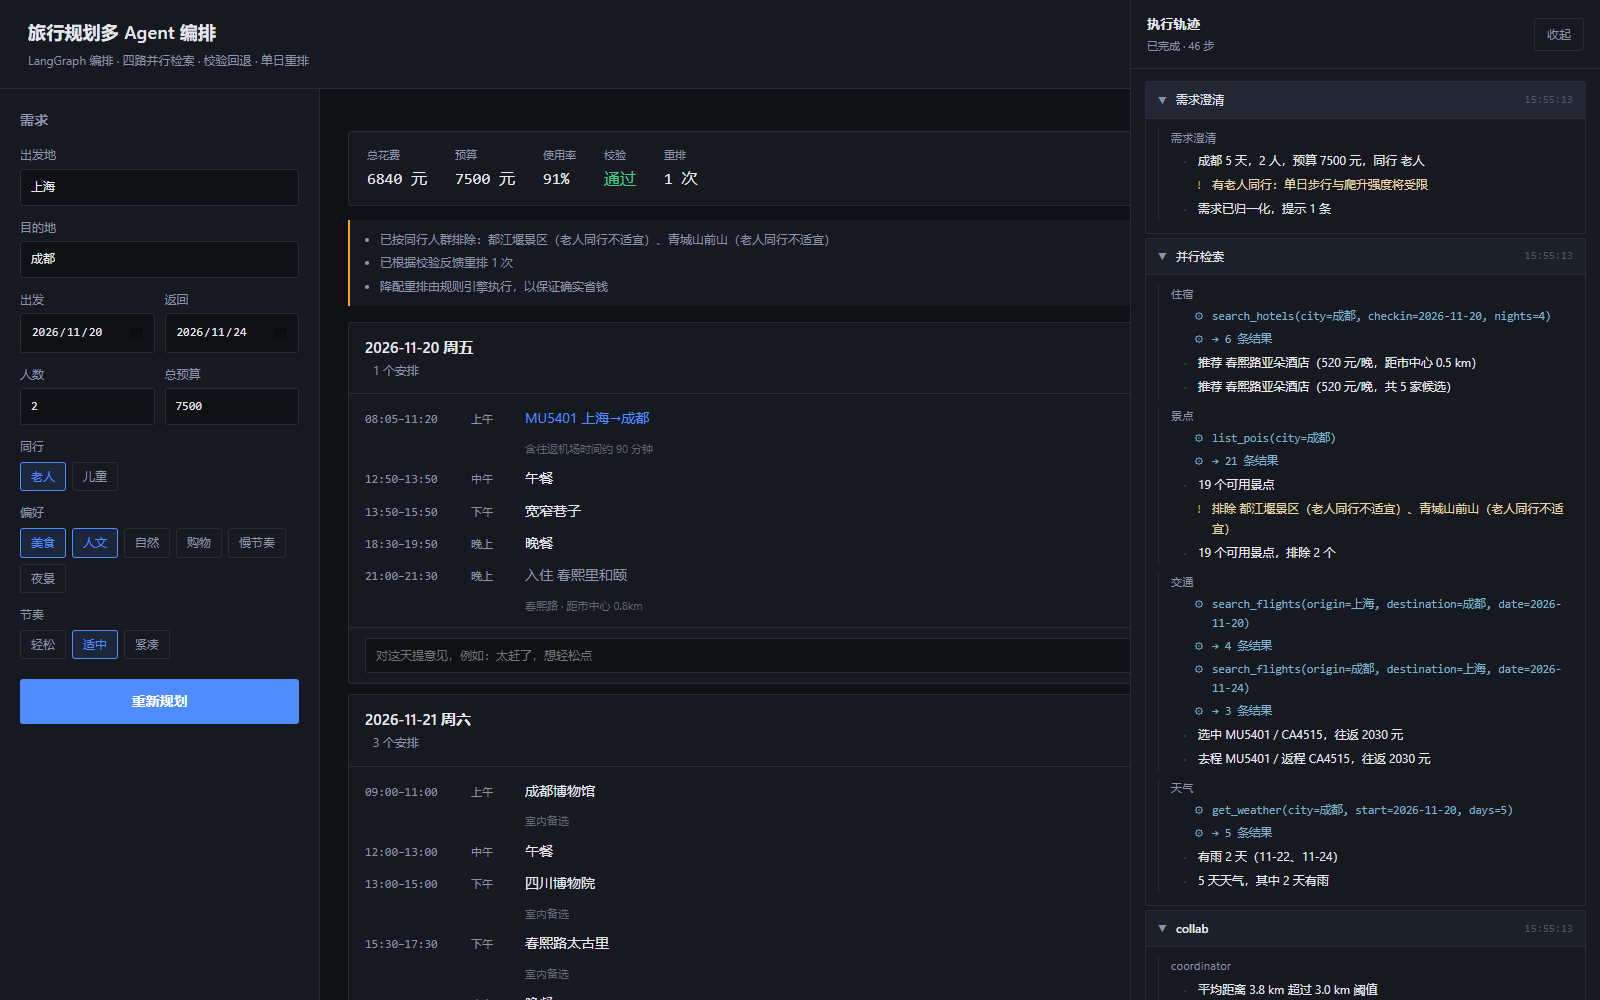
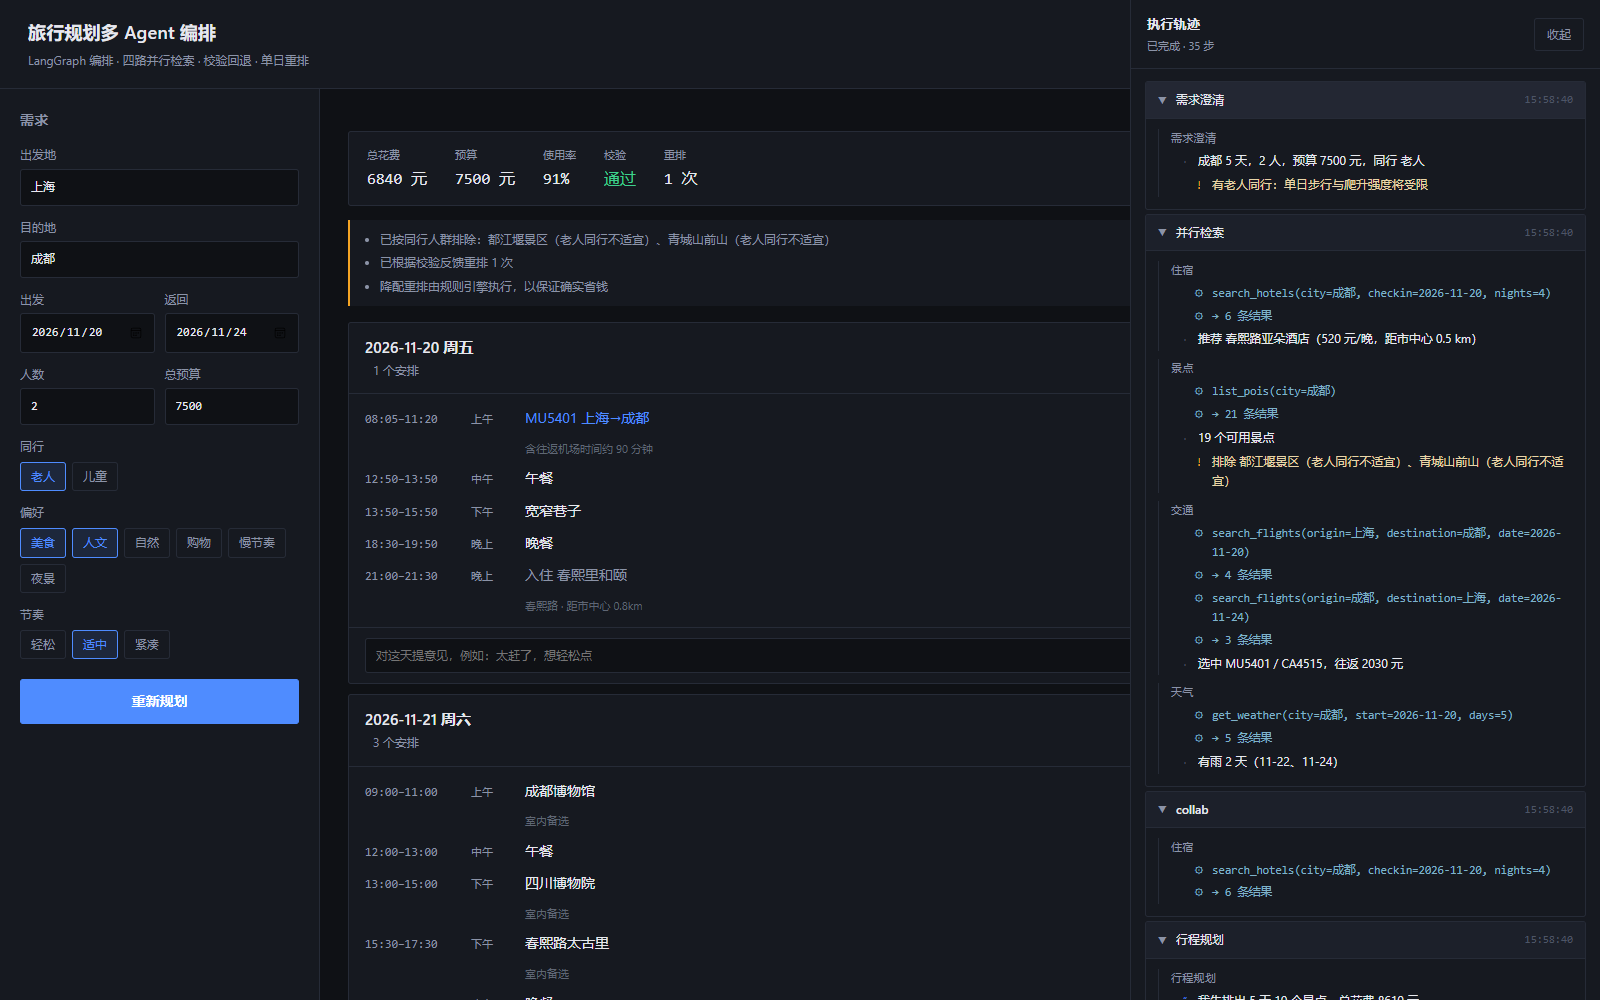
fix(trace): 去掉 agent_completed 摘要与节点动作行的重复
节点动作已由日志行记录，agent_completed 再投影一次会让同一句话出现两遍；
抽屉轨迹从 46 步降到 35 步，工具调用只保留真实 call/result 一对。

diff --git a/frontend/src/App.tsx b/frontend/src/App.tsx
@@ -373,7 +373,8 @@ function eventToLogEntry(ev: RunEvent): LogEntry | null {
     case 'tool_exchange':
       return { ...base, kind: 'tool', text: p.text ?? '', depth: 2, tool: String(p.tool ?? '') }
     case 'agent_completed':
-      return p.summary ? { ...base, kind: 'action', text: String(p.summary), depth: 1 } : null
+      // 节点的具体动作已由日志行记录，这里不再重复一条摘要
+      return null
     case 'validation_result': {
       const issues = Array.isArray(p.issues) ? p.issues : []
       const blockers = issues.filter((i: any) => i?.severity === 'blocker')
